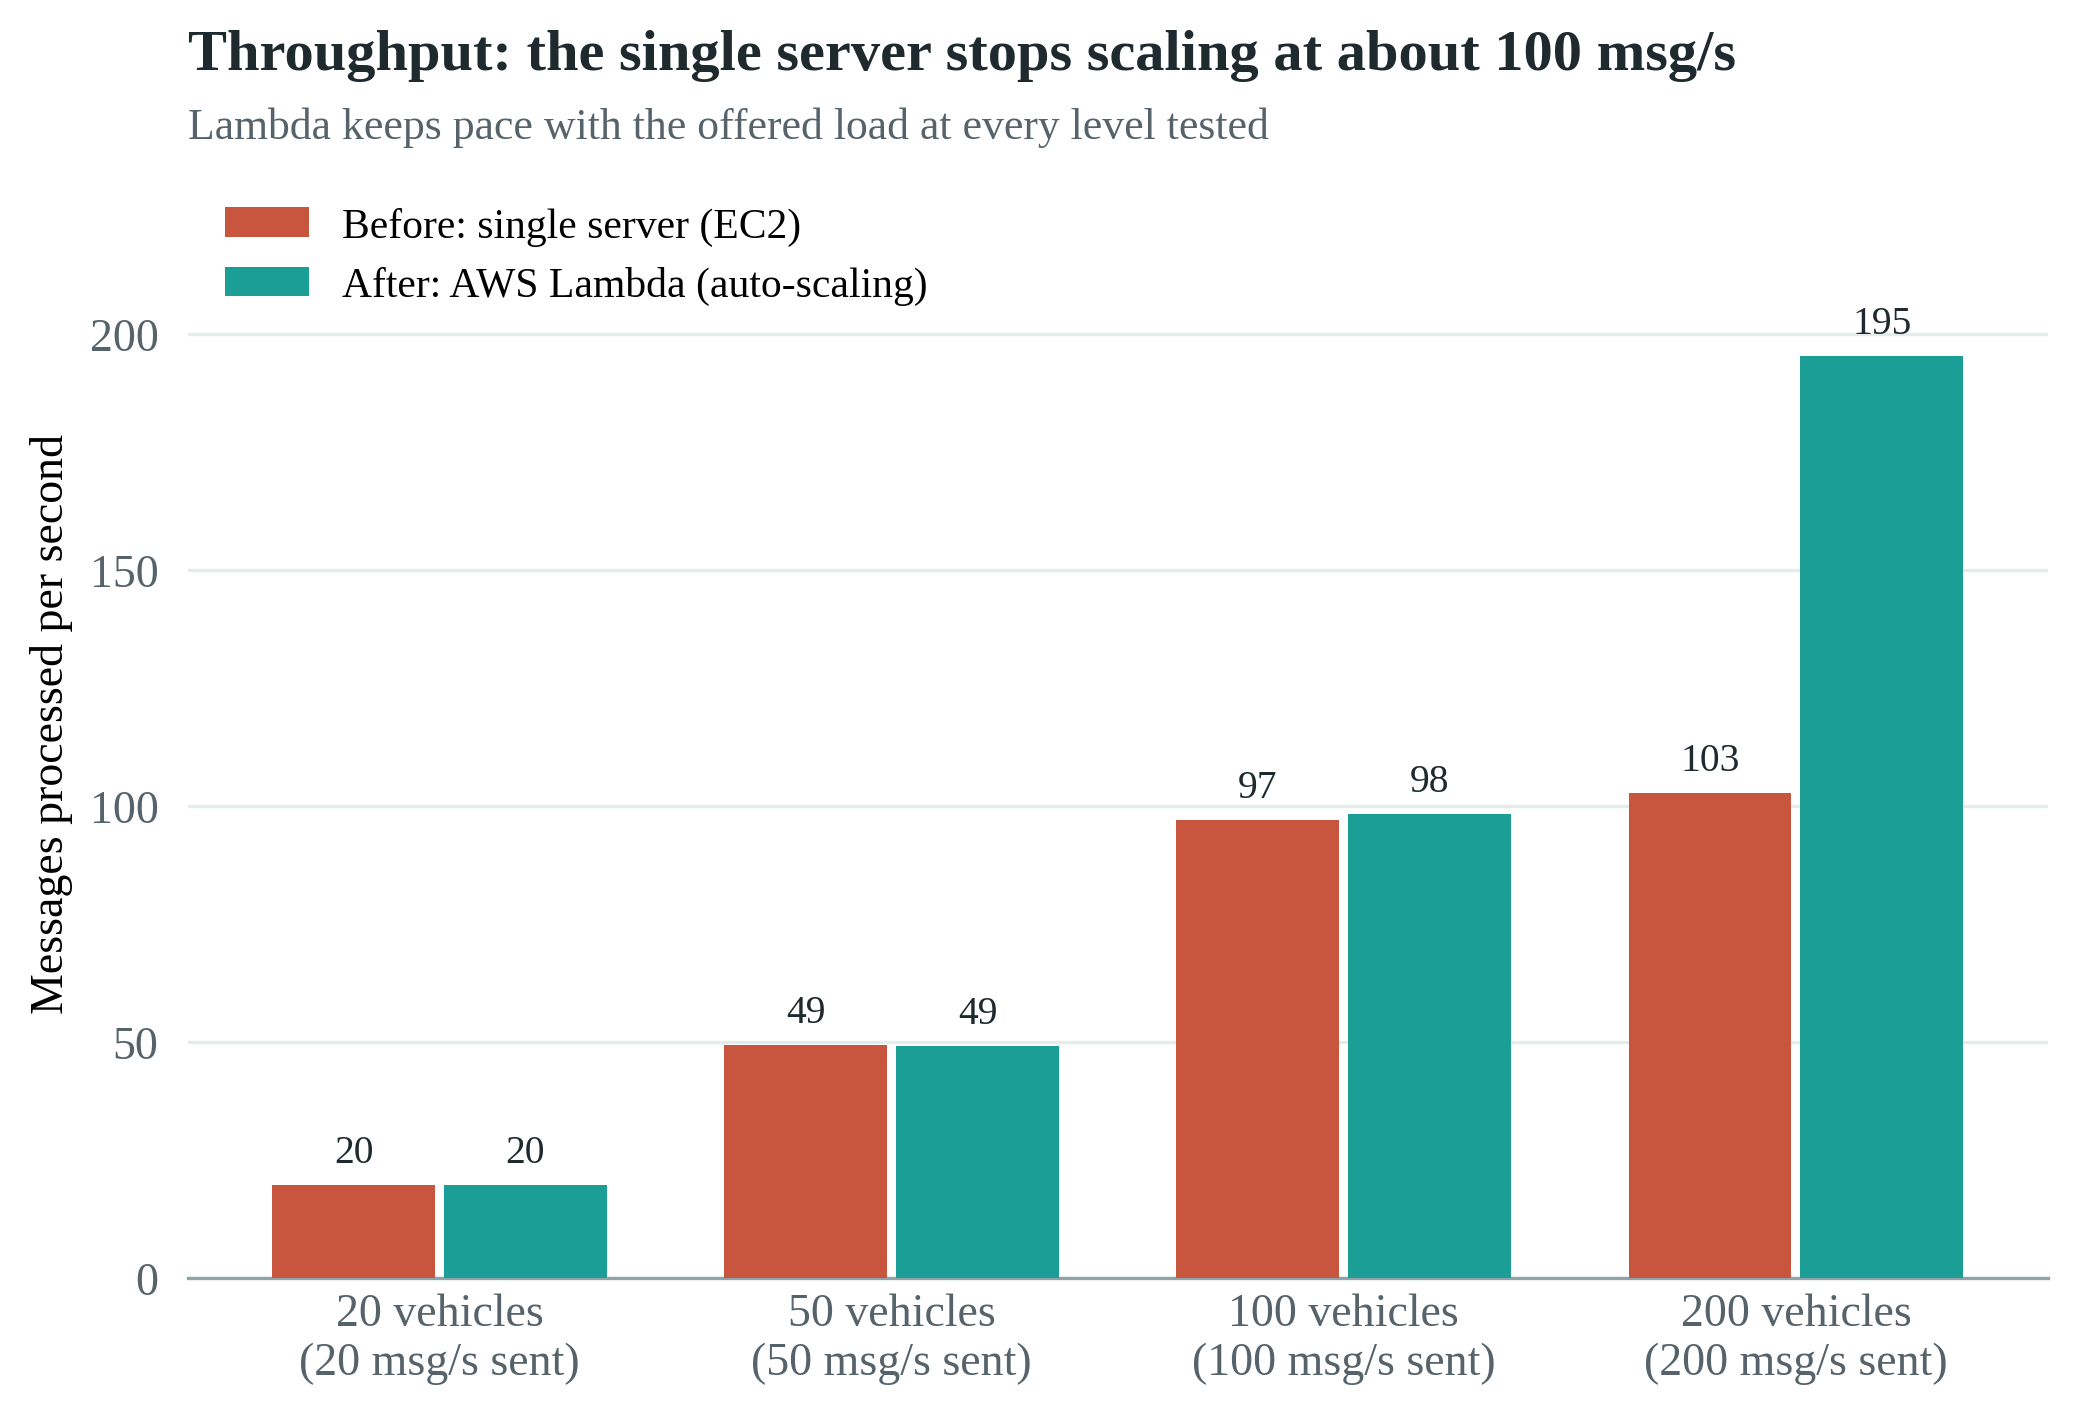
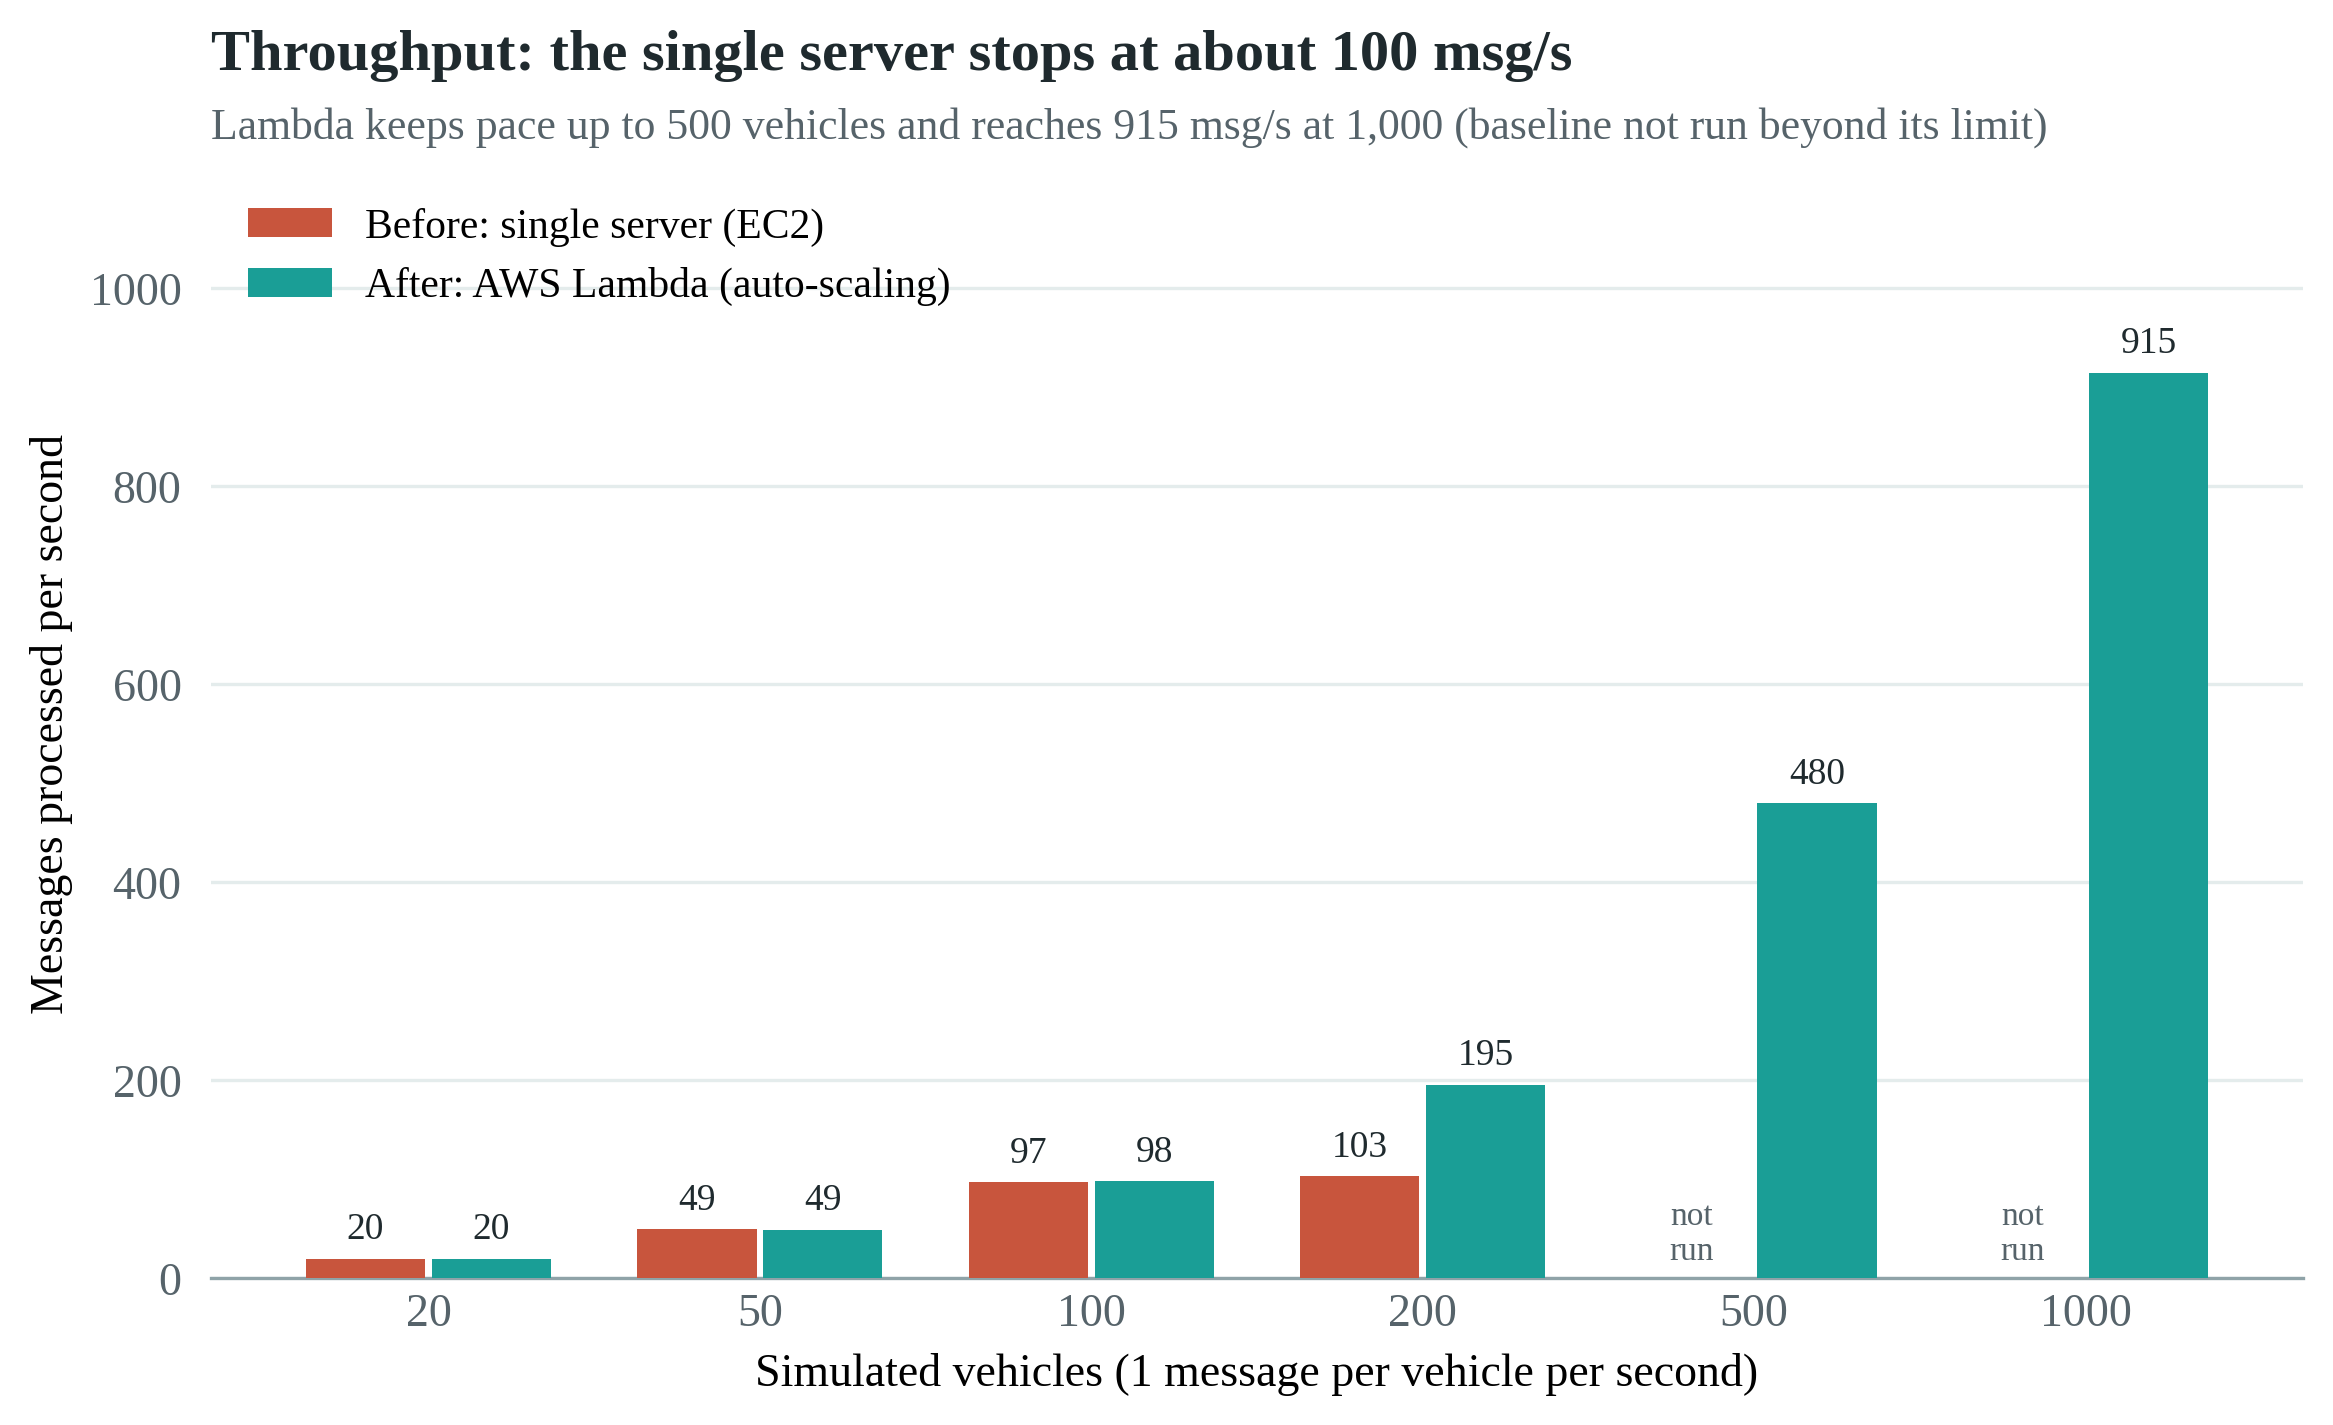
Add 500 and 1000 vehicle stress tests

diff --git a/analysis/smart_transit_charts.py b/analysis/smart_transit_charts.py
@@ -1,14 +1,10 @@
-# Before vs after load-test charts. Reads summary.csv and the 200-vehicle
-# timeseries CSVs from /content (Google Colab) or results/ (local).
+# Load-test charts. Reads summary.csv and the timeseries CSVs from /content
+# (Google Colab) or results/ (local).
 import csv, io, os
 import numpy as np
-import matplotlib
 import matplotlib.pyplot as plt
 from matplotlib import font_manager
 
-# ---------------------------------------------------------------- load data
-# Reads the CSV files you already uploaded to the Colab Files panel (/content).
-# On your own computer it reads the results/ folder instead.
 folder = '/content' if os.path.isdir('/content') else 'results'
 files = {}
 for name in sorted(os.listdir(folder)):
@@ -18,7 +14,7 @@ print('CSV files found:', ', '.join(files) or 'none - upload them to the Files p
 IN_COLAB = folder == '/content'
 
 def find(prefix):
-    for name in sorted(files):                 # prefers 'x.csv' over 'x (1).csv'
+    for name in sorted(files):
         if name.startswith(prefix) and '(' not in name:
             return files[name]
     for name in sorted(files):
@@ -27,12 +23,12 @@ def find(prefix):
     return None
 
 summary = list(csv.DictReader(io.StringIO(find('summary'))))
-LOADS = [20, 50, 100, 200]
+LOADS = sorted({int(r['vehicles']) for r in summary})
+
 def metric(pipeline, key):
     rows = {int(r['vehicles']): float(r[key]) for r in summary if r['pipeline'] == pipeline}
-    return np.array([rows[v] for v in LOADS])
+    return np.array([rows.get(v, np.nan) for v in LOADS])
 
-# ---------------------------------------------------------------- style
 font = 'Liberation Serif' if any('Liberation Serif' in f.name for f in font_manager.fontManager.ttflist) else 'serif'
 plt.rcParams.update({
     'font.family': font, 'font.size': 11,
@@ -44,67 +40,66 @@ plt.rcParams.update({
 })
 # terracotta = single server (before), teal = Lambda (after)
 BEFORE, AFTER = '#c8553d', '#1a9e96'
-DEEP_TEAL = '#0e5f5a'                          # darker teal for large headline numbers
+DEEP_TEAL = '#0e5f5a'
 INK, MUTED, TARGET = '#1f2a2e', '#56636a', '#8fa3a8'
 L_BEFORE = 'Before: single server (EC2)'
 L_AFTER = 'After: AWS Lambda (auto-scaling)'
 x = np.arange(len(LOADS))
-W = 0.36   # bar width
+W = 0.36
 saved = []
 
 def title(ax, main, sub):
     ax.set_title(main, loc='left', fontsize=14, fontweight='bold', color=INK, pad=24)
     ax.text(0, 1.02, sub, transform=ax.transAxes, fontsize=10.5, color=MUTED, va='bottom')
 
-def bars(ax, before, after, fmt, pad):
-    b1 = ax.bar(x - W/2 - 0.01, before, W, color=BEFORE, label=L_BEFORE, zorder=3)
+def bars(ax, before, after, fmt, pad, labels=True):
+    b1 = ax.bar(x - W/2 - 0.01, np.nan_to_num(before), W, color=BEFORE, label=L_BEFORE, zorder=3)
     b2 = ax.bar(x + W/2 + 0.01, after, W, color=AFTER, label=L_AFTER, zorder=3)
-    for bar_set in (b1, b2):
-        for rect in bar_set:
-            h = rect.get_height()
-            ax.text(rect.get_x() + rect.get_width()/2, h + pad, fmt(h),
-                    ha='center', va='bottom', fontsize=9.5, color=INK)
-    ax.set_xticks(x, [f'{v} vehicles' for v in LOADS])
+    for vals, bar_set in ((before, b1), (after, b2)):
+        for v, rect in zip(vals, bar_set):
+            cx = rect.get_x() + rect.get_width() / 2
+            if np.isnan(v):
+                ax.text(cx, pad, 'not\nrun', ha='center', va='bottom', fontsize=8, color=MUTED)
+            elif labels:
+                ax.text(cx, v + pad, fmt(v), ha='center', va='bottom', fontsize=9, color=INK)
+    ax.set_xticks(x, [f'{v}' for v in LOADS])
+    ax.set_xlabel('Simulated vehicles (1 message per vehicle per second)')
     ax.tick_params(axis='x', length=0)
 
 def save(fig, name):
     fig.savefig(name); saved.append(name); plt.close(fig)
 
-# ---------------------------------------------------------------- Fig 1: throughput
-fig, ax = plt.subplots(figsize=(8, 4.8))
-bars(ax, metric('baseline', 'throughput_msg_s'), metric('lambda', 'throughput_msg_s'),
-     lambda v: f'{v:.0f}', 3)
-ax.set_xticks(x, [f'{v} vehicles\n({v} msg/s sent)' for v in LOADS])
+# Fig 1: throughput
+fig, ax = plt.subplots(figsize=(9, 4.8))
+bars(ax, metric('baseline', 'throughput_msg_s'), metric('lambda', 'throughput_msg_s'), lambda v: f'{v:.0f}', 12)
 ax.set_ylabel('Messages processed per second')
-ax.set_ylim(0, 235)
-title(ax, 'Throughput: the single server stops scaling at about 100 msg/s',
-      'Lambda keeps pace with the offered load at every level tested')
+ax.set_ylim(0, max(LOADS) * 1.12)
+title(ax, 'Throughput: the single server stops at about 100 msg/s',
+      'Lambda keeps pace up to 500 vehicles and reaches 915 msg/s at 1,000 (baseline not run beyond its limit)')
 ax.legend(loc='upper left', fontsize=10)
 save(fig, 'fig1_throughput.png')
 
-# ---------------------------------------------------------------- Fig 2: message loss
-fig, ax = plt.subplots(figsize=(8, 4.8))
-bars(ax, metric('baseline', 'loss_pct'), metric('lambda', 'loss_pct'),
-     lambda v: f'{v:g}%', 1)
+# Fig 2: message loss
+fig, ax = plt.subplots(figsize=(9, 4.8))
+bars(ax, metric('baseline', 'loss_pct'), metric('lambda', 'loss_pct'), lambda v: f'{v:g}%', 1)
 ax.set_ylabel('Messages lost (%)')
 ax.set_ylim(0, 58)
-title(ax, 'Message loss: 47% of messages lost by the single server at 200 vehicles',
-      'Lambda processed every message at every load (0.02% at 100 vehicles = 2 messages)')
+title(ax, 'Message loss by load',
+      'Single server loses 47% at 200 vehicles; Lambda stays under 0.2% until the 1,000-vehicle spike (7%)')
 ax.legend(loc='upper left', fontsize=10)
 save(fig, 'fig2_message_loss.png')
 
-# ---------------------------------------------------------------- Fig 3: latency (two panels, no overlap)
-fig, axes = plt.subplots(1, 2, figsize=(11, 4.8), sharey=True)
+# Fig 3: latency (median and p95)
+fig, axes = plt.subplots(1, 2, figsize=(12, 4.8), sharey=True)
 for ax, key, name in [(axes[0], 'latency_p50_ms', 'Median (p50)'),
                       (axes[1], 'latency_p95_ms', '95th percentile (p95)')]:
-    bars(ax, metric('baseline', key) / 1000, metric('lambda', key) / 1000,
-         lambda v: f'{v:.2f}s', 0.05)
+    bars(ax, metric('baseline', key) / 1000, metric('lambda', key) / 1000, lambda v: f'{v:.2f}', 0.05)
     ax.axhline(3, color=TARGET, lw=1.2, ls=(0, (4, 3)), zorder=2)
-    ax.text(-0.45, 3.06, 'Plan target: under a few seconds (3 s)', fontsize=9, color=MUTED)
+    ax.text(-0.45, 3.06, 'Plan target: 3 s', fontsize=9, color=MUTED)
     ax.set_title(name, loc='left', fontsize=12, color=INK, pad=6)
-    ax.set_ylim(0, 4.3)
+    ax.set_ylim(0, 5.0)
 axes[0].set_ylabel('End-to-end latency (seconds)')
-fig.suptitle('Latency under load: Lambda stays flat, the single server degrades after 100 vehicles',
+fig.suptitle('Latency under load: Lambda stays near 1 s until the 1,000-vehicle spike',
              x=0.01, ha='left', fontsize=14, fontweight='bold', color=INK)
 handles, labels = axes[0].get_legend_handles_labels()
 fig.legend(handles, labels, loc='lower center', ncol=2, bbox_to_anchor=(0.5, -0.06), fontsize=10.5)
@@ -114,23 +109,24 @@ fig.text(0.01, -0.12, 'Latency = time from the vehicle sending a message (Melbou
 fig.tight_layout(rect=(0, 0, 1, 0.95))
 save(fig, 'fig3_latency.png')
 
-# ---------------------------------------------------------------- Fig 4: 200-vehicle timeline
 def timeseries(prefix):
     text = find(prefix)
     if text is None:
         return None
     rows = list(csv.DictReader(io.StringIO(text)))
     s = np.array([int(r['second']) for r in rows])
+    n = np.array([int(r['messages']) for r in rows])
     p95 = np.array([float(r['latency_p95_ms']) for r in rows]) / 1000
-    smooth = np.convolve(p95, np.ones(5) / 5, mode='same')     # 5-second rolling mean
-    return s, p95, smooth
+    smooth = np.convolve(p95, np.ones(5) / 5, mode='same')
+    return s, p95, smooth, n
 
+# Fig 4: 200-vehicle timeline, before vs after
 tb, tl = timeseries('base-200'), timeseries('lambda-200')
 if tb and tl:
     fig, ax = plt.subplots(figsize=(8, 4.8))
-    for (s, raw, smooth), color, label in [(tb, BEFORE, L_BEFORE), (tl, AFTER, L_AFTER)]:
-        ax.plot(s, raw, color=color, lw=0.8, alpha=0.25)                 # raw, faint
-        ax.plot(s[2:-2], smooth[2:-2], color=color, lw=2.2, label=label)  # 5 s average
+    for (s, raw, smooth, _), color, label in [(tb, BEFORE, L_BEFORE), (tl, AFTER, L_AFTER)]:
+        ax.plot(s, raw, color=color, lw=0.8, alpha=0.25)
+        ax.plot(s[2:-2], smooth[2:-2], color=color, lw=2.2, label=label)
     ax.axhline(3, color=TARGET, lw=1.2, ls=(0, (4, 3)))
     ax.text(119, 3.08, 'Plan target (3 s)', fontsize=9, color=MUTED, ha='right')
     ax.set_xlabel('Seconds into the 200-vehicle test')
@@ -141,12 +137,11 @@ if tb and tl:
           'The single server builds a backlog (up to 4 s); Lambda holds steady at about 1 s')
     ax.legend(loc='upper right', fontsize=10)
     save(fig, 'fig4_latency_over_time_200.png')
-else:
-    print('Skipped Fig 4: upload base-200-timeseries.csv and lambda-200-timeseries.csv to include it.')
 
-# ---------------------------------------------------------------- Fig 5: improvement summary at 200
-b = {k: metric('baseline', k)[-1] for k in ['throughput_msg_s', 'loss_pct', 'latency_p50_ms', 'latency_p95_ms', 'latency_p99_ms']}
-a = {k: metric('lambda', k)[-1] for k in b}
+# Fig 5: improvement summary at 200 vehicles
+i200 = LOADS.index(200)
+b = {k: metric('baseline', k)[i200] for k in ['throughput_msg_s', 'loss_pct', 'latency_p50_ms', 'latency_p95_ms']}
+a = {k: metric('lambda', k)[i200] for k in b}
 cards = [
     ('Throughput', f"{b['throughput_msg_s']:.0f} → {a['throughput_msg_s']:.0f} msg/s", f"{a['throughput_msg_s'] / b['throughput_msg_s']:.1f}× higher"),
     ('Messages lost', f"{b['loss_pct']:.1f}% → {a['loss_pct']:.0f}%", 'no data lost'),
@@ -166,7 +161,33 @@ fig.suptitle('Improvement at 200 vehicles: single server → AWS Lambda', x=0.01
 fig.tight_layout(rect=(0, 0, 1, 0.93))
 save(fig, 'fig5_improvement_summary.png')
 
-# ---------------------------------------------------------------- show + download
+# Fig 6: 1,000-vehicle stress test timeline (Lambda)
+t = timeseries('lambda-1000')
+if t:
+    s, raw, smooth, n = t
+    fig, (ax1, ax2) = plt.subplots(2, 1, figsize=(8, 5.6), sharex=True, gridspec_kw={'height_ratios': [1, 1]})
+    ax1.bar(s, n, width=0.9, color=AFTER, zorder=3)
+    ax1.axhline(1000, color=TARGET, lw=1.2, ls=(0, (4, 3)))
+    ax1.text(119, 1015, 'sent: 1,000 msg/s', fontsize=9, color=MUTED, ha='right', va='bottom')
+    ax1.set_ylabel('Messages processed\nper second')
+    ax1.set_ylim(0, 1150)
+    ax2.plot(s, raw, color=AFTER, lw=0.8, alpha=0.3)
+    ax2.plot(s[2:-2], smooth[2:-2], color=DEEP_TEAL, lw=2.2)
+    ax2.axhline(3, color=TARGET, lw=1.2, ls=(0, (4, 3)))
+    ax2.text(119, 3.08, 'Plan target (3 s)', fontsize=9, color=MUTED, ha='right')
+    ax2.set_ylabel('p95 latency (s)')
+    ax2.set_xlabel('Seconds into the 1,000-vehicle Lambda test')
+    ax2.set_ylim(0, max(6, raw.max() * 1.1)); ax2.set_xlim(-1, 120)
+    for ax in (ax1, ax2):
+        ax.grid(axis='x', visible=False)
+        ax.axvspan(-1, 36, color='#fbefec', zorder=0)
+    ax1.text(1, 1080, 'scale-up phase: throttling', fontsize=9.5, color=BEFORE, va='top')
+    ax1.text(40, 1080, 'steady state: all messages processed', fontsize=9.5, color=DEEP_TEAL, va='top')
+    title(ax1, 'Breaking point: the 1,000-vehicle spike',
+          'Lambda is throttled while it scales out, then recovers to ~1,000 msg/s at under 1 s')
+    fig.tight_layout()
+    save(fig, 'fig6_stress_1000.png')
+
 print('Saved:', ', '.join(saved))
 if IN_COLAB:
     from IPython.display import Image, display

diff --git a/README.md b/README.md
@@ -67,5 +67,7 @@ Each test sent 1 message per vehicle per second for 2 minutes.
 |---|---|---|
 | 100 | 97 msg/s, 0% lost, p95 1.61 s | 98 msg/s, 0.02% lost, p95 1.03 s |
 | 200 | 103 msg/s, 47.2% lost, p95 3.68 s | 195 msg/s, 0% lost, p95 1.11 s |
+| 500 | not run | 480 msg/s, 0.16% lost, p95 1.27 s |
+| 1,000 | not run | 915 msg/s, 7.04% lost, p95 4.54 s (throttled for 35 s while scaling out, then ~1,000 msg/s at 0.8 s) |
 
 Full results are in `results/summary.csv`.
